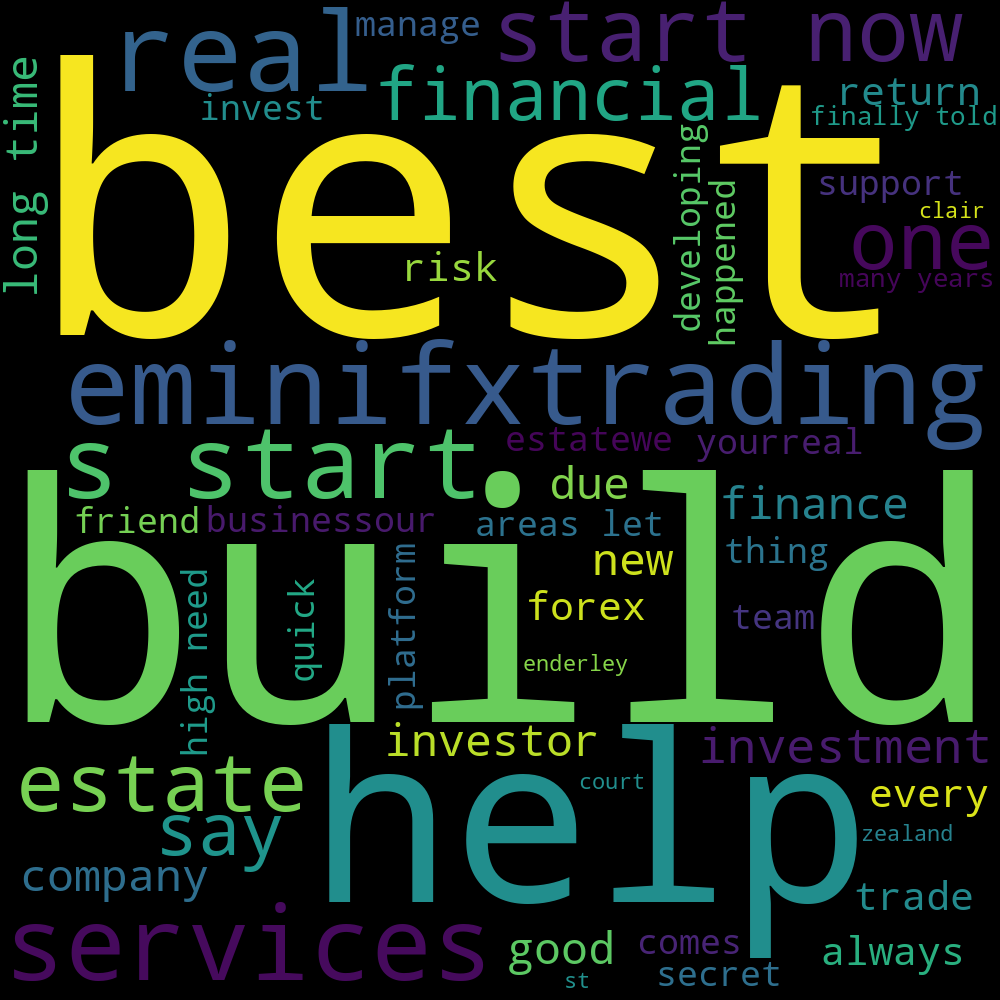
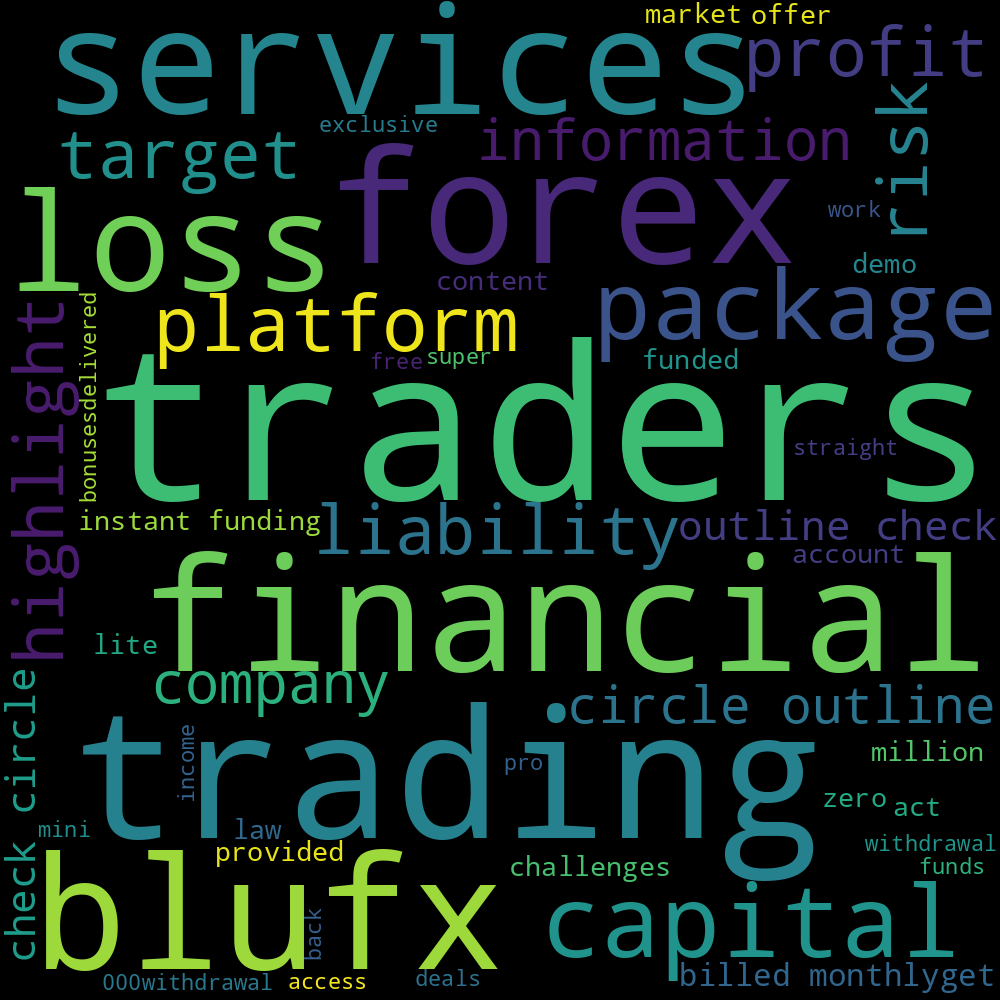
Just created the new word clouds for the scam website

diff --git a/pages/wordcloud_scam.py b/pages/wordcloud_scam.py
@@ -1,0 +1,30 @@
+####### Useless notebook just to create notebook
+#######
+
+
+
+import streamlit as st
+import numpy as np
+import pandas as pd
+from wordcloud import WordCloud
+import matplotlib.pyplot as plt
+from wordcloud import STOPWORDS
+from PIL import Image
+import random
+
+df_scam_text = pd.read_csv('/home/zamanay/code/Dimitrakis999/Scam-Demo-Day/data/ayoob_text_prediction.csv', index_col=0)
+
+wordcloud_scam = WordCloud(width=1000, height=1000, max_words=50).generate(df_scam_text['text'][0])
+wordcloud_scam.to_file("scam_words.png")
+
+wordcloud_scam2 = WordCloud(width=1000, height=1000, max_words=50).generate(df_scam_text['text'][1])
+wordcloud_scam2.to_file("scam_words2.png")
+
+wordcloud_scam3 = WordCloud(width=1000, height=1000, max_words=50).generate(df_scam_text['text'][2])
+wordcloud_scam3.to_file("scam_words3.png")
+
+wordcloud_scam4 = WordCloud(width=1000, height=1000, max_words=50).generate(df_scam_text['text'][3])
+wordcloud_scam4.to_file("scam_words4.png")
+
+wordcloud_scam5 = WordCloud(width=1000, height=1000, max_words=50).generate(df_scam_text['text'][4])
+wordcloud_scam5.to_file("scam_words5.png")
